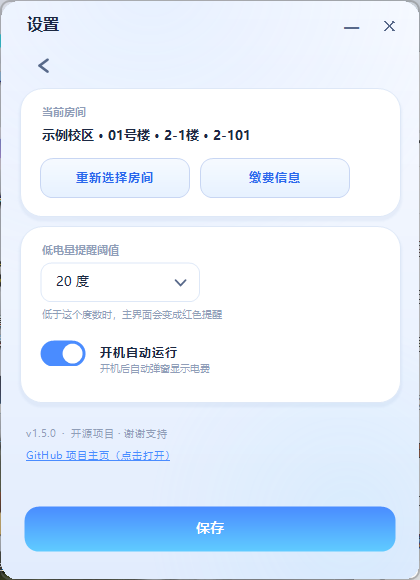
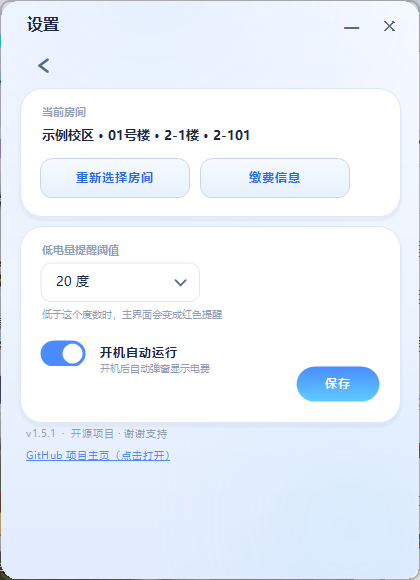
v1.5.1: 设置页保存按钮移到低电量阈值卡片右下角

Changed region(s): [[0.031, 0.869, 0.9595, 0.9621], [0.0619, 0.6207, 0.9595, 0.7448], [0.031, 0.6517, 0.0619, 0.6828]]

diff --git a/src/MainForm.cs b/src/MainForm.cs
@@ -151,7 +151,9 @@ namespace ShangtiPower
 
             _btnSave = new AccentButton();
             _btnSave.Text = "保存";
-            _btnSave.SetBounds(24, 506, 372, 46);
+            _btnSave.SetBounds(296, 366, 84, 36);
+            _btnSave.Radius = 18f;
+            _btnSave.Font = Theme.F(12.5f, FontStyle.Bold);
             _btnSave.Click += delegate { SaveSettings(); };
             Controls.Add(_btnSave);
         }
@@ -646,7 +648,7 @@ namespace ShangtiPower
                 new RectangleF(40, 124, 340, 24), StringAlignment.Near);
 
             // 卡片二：阈值 + 自启
-            RectangleF card2 = new RectangleF(20, 226, ClientSize.Width - 40, 176);
+            RectangleF card2 = new RectangleF(20, 226, ClientSize.Width - 40, 196);
             Theme.CardBox(g, card2, 22f);
             Theme.Text(g, "低电量提醒阈值", Theme.F(11f, FontStyle.Bold), Theme.TextDim,
                 new RectangleF(40, 242, 220, 18), StringAlignment.Near);

diff --git a/src/Program.cs b/src/Program.cs
@@ -18,7 +18,7 @@ namespace ShangtiPower
     {
         public const string AppName = "宿电监测";
         public const string AppId = "SudianMonitor";
-        public const string Version = "1.5.0";
+        public const string Version = "1.5.1";
         public const string RepoUrl = "https://github.com/cyy-12322/shangti-power";
         /// <summary>学校官方缴费入口（校园安心付）。</summary>
         public const string PayUrl = "https://axinfu.sus.edu.cn:8082/electric/page/login";

diff --git a/installer/InstallerProgram.cs b/installer/InstallerProgram.cs
@@ -15,7 +15,7 @@ namespace ShangtiPower.Setup
     {
         public const string AppName = "宿电监测";
         public const string AppId = "SudianMonitor";
-        public const string AppVersion = "1.5.0";
+        public const string AppVersion = "1.5.1";
         public const string AppExeName = "宿电监测.exe";
 
         public static string LogPath

diff --git a/installer/AssemblyInfo.cs b/installer/AssemblyInfo.cs
@@ -9,5 +9,5 @@ using System.Runtime.InteropServices;
 [assembly: AssemblyTrademark("")]
 [assembly: AssemblyCulture("")]
 [assembly: ComVisible(false)]
-[assembly: AssemblyVersion("1.5.0.0")]
-[assembly: AssemblyFileVersion("1.5.0.0")]
+[assembly: AssemblyVersion("1.5.1.0")]
+[assembly: AssemblyFileVersion("1.5.1.0")]

diff --git a/src/AssemblyInfo.cs b/src/AssemblyInfo.cs
@@ -9,5 +9,5 @@ using System.Runtime.InteropServices;
 [assembly: AssemblyTrademark("")]
 [assembly: AssemblyCulture("")]
 [assembly: ComVisible(false)]
-[assembly: AssemblyVersion("1.5.0.0")]
-[assembly: AssemblyFileVersion("1.5.0.0")]
+[assembly: AssemblyVersion("1.5.1.0")]
+[assembly: AssemblyFileVersion("1.5.1.0")]

diff --git a/CHANGELOG.md b/CHANGELOG.md
@@ -1,5 +1,10 @@
 # 更新日志
 
+## v1.5.1 (2026-11-11)
+
+- 设置页「保存」按钮移到「低电量提醒阈值」卡片右下角，改完阈值/自启后顺手保存，更符合操作习惯
+
+
 ## v1.5.0 (2026-11-11)
 
 ### 新增：记住缴费信息，点一下自动带入
